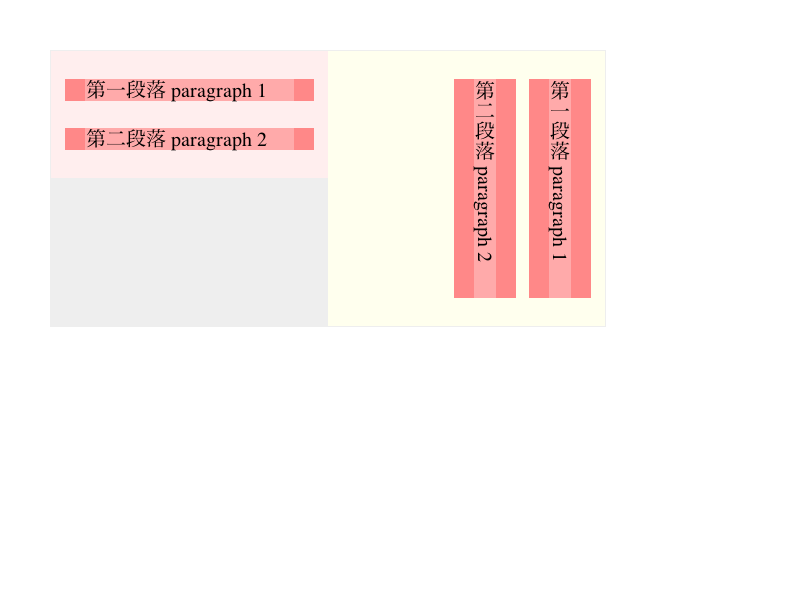
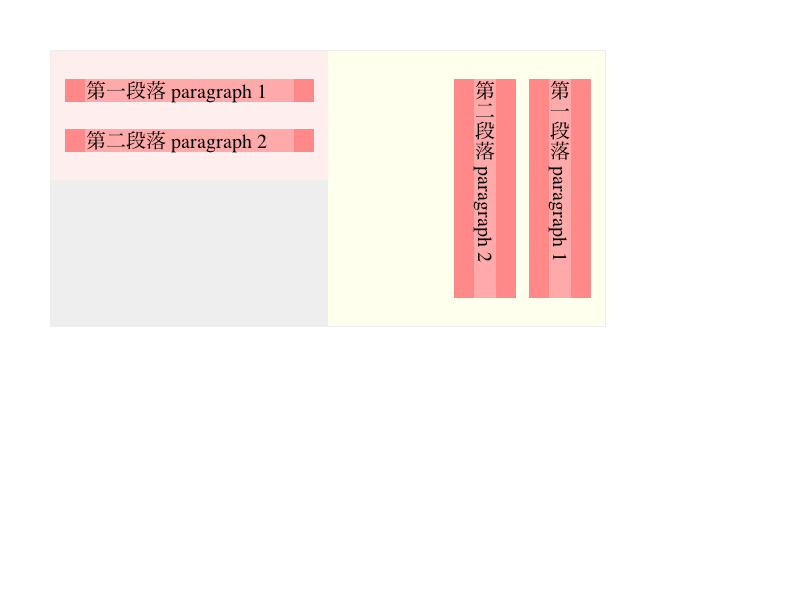
https://bugs.webkit.org/show_bug.cgi?id=48537
Reviewed by Sam Weinig.

WebCore: 

Fonts with no vertical metrics should synthesize baselines when they appear
on lines that do use fonts with vertical metrics.  Basically we want to make
sure that English text behaves like vertical-align:middle, i.e., its baseline
should be treated as though it cuts through the middle of the ascent+descent.
        
The way this works is that each line in the line box tree is labeled as having
a baseline type that is either ideographic or alphabetic for the purposes of
vertical alignment.  A line becomes ideographic if any font with vertical tables
is either explicitly specified as the primary font or in any of the used fonts
in the text on that line.
        
This baselineType is passed down to computeLogicalBoxHeights and placeBoxesInBlockDirection,
and passed to the ascent and descent methods of the fonts that are examined.
The underlying Font code selects an appropriate baseline given the type passed in.
        
This patch also rewrites vertical alignment to lop 4 bytes off all RenderInlines and
to instead carry around the cached vertical positions for RenderInlines in a new
VerticalPositionCache object.  This cache only lives for a single layout
operation, but it does cache information across all the lines built and placed during the
layout.
        
This matches the old behavior, since every call to layoutInlineChildren invalidated
all of the vertical positions in all of the RenderInlines anyway.
[…]

Changed region(s): [[0.0938, 0.21, 0.375, 0.27], [0.0938, 0.12, 0.3125, 0.18]]

diff --git a/fast/blockflow/vertical-baseline-alignment.html b/fast/blockflow/vertical-baseline-alignment.html
@@ -1,0 +1,27 @@
+<!DOCTYPE HTML>
+<html style="-webkit-writing-mode: vertical-rl">
+<head>
+<title>Vertical Font Baseline Test</title>
+<meta http-equiv="Content-Type" content="text/html; charset=utf-8" />
+  
+<style type="text/css">
+
+body {  font-size:24px  }
+
+.japanese { font-family: "HiraMinPro-W3"; }
+.english { font-size:48px; text-transform:uppercase }
+
+
+</style>
+</head>
+<body>
+
+<p><span class="japanese">第一段落 </span><span class="english">Paragraph 1
+<br>
+More text. <span style="font-size:12px">Should not be centered.</span>
+</span></p><p><span>第二段落 <span class="english">Paragraph 2
+<img style="background-color:green; width:70px; height:30px;">
+</span></span></p>
+
+</body>
+</html>

diff --git a/fast/blockflow/vertical-align-table-baseline.html b/fast/blockflow/vertical-align-table-baseline.html
@@ -1,0 +1,21 @@
+<!DOCTYPE HTML>
+<html style="-webkit-writing-mode: vertical-lr">
+<head>
+<title>Vertical Font Table Baseline Test</title>
+<meta http-equiv="Content-Type" content="text/html; charset=utf-8" />
+  
+<style type="text/css">
+
+body { font-family: "HiraMinPro-W3"; font-size:48px  }
+.large { font-size:96px; }
+td { vertical-align: baseline; }
+
+</style>
+</head>
+<body>
+
+<table border=2 style="" ><tr><td>第一段落
+<td class="large">第二段落 
+</table>
+</body>
+</html>
